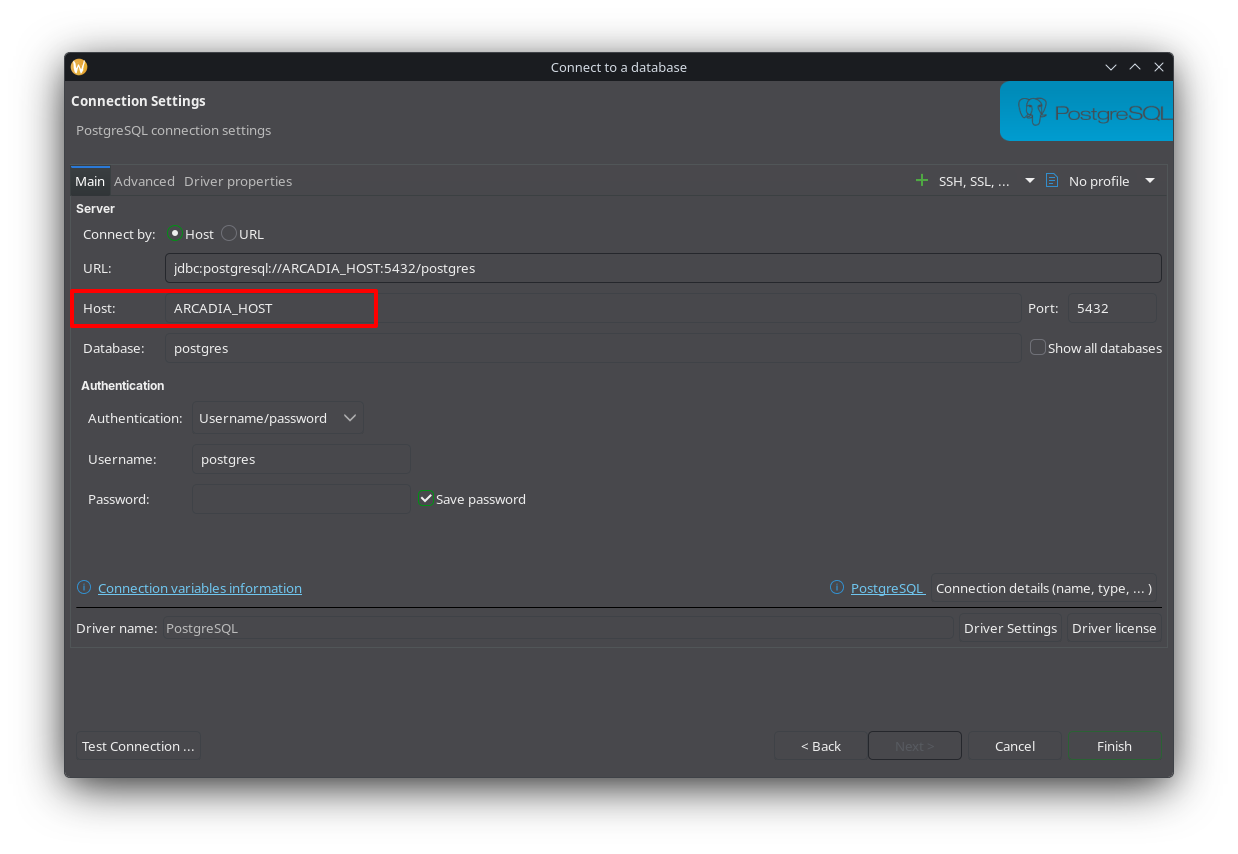
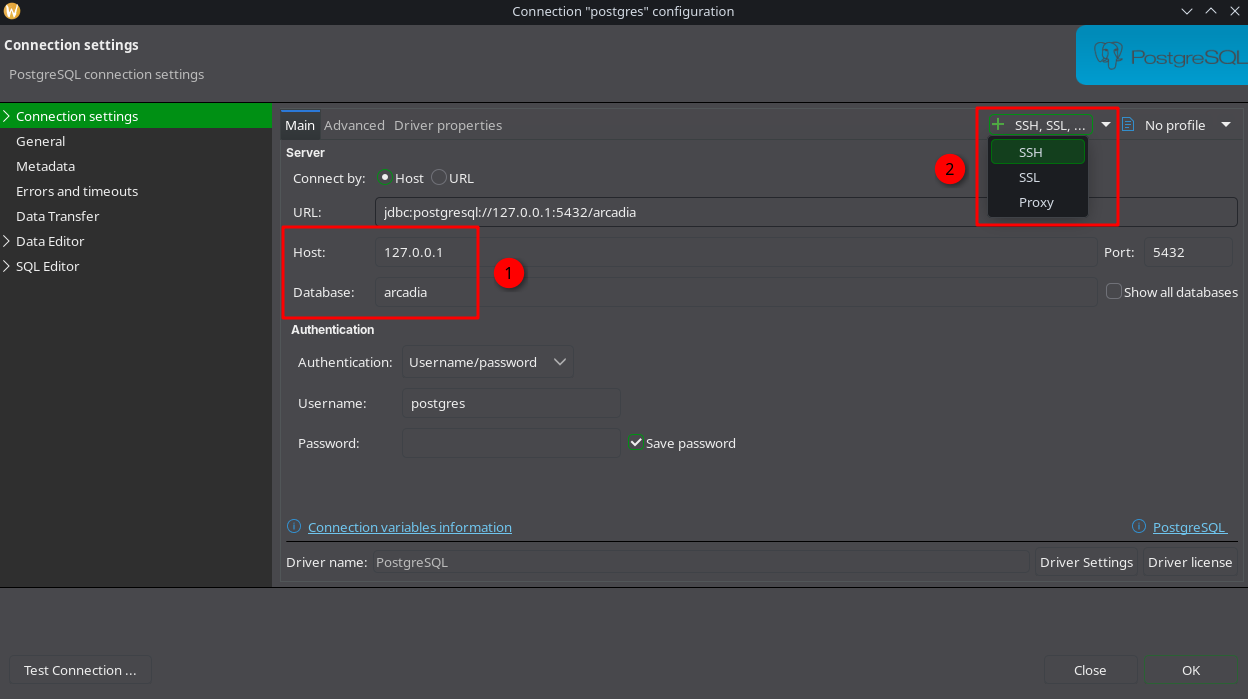
doc: Switch to the /register trick instead of updating default user
Also removed the part of setting Postgres to listen on global and then
documented how to connect to it via a SSH tunnel instead for better
security.

diff --git a/README.md b/README.md
@@ -11,7 +11,7 @@ As the official guide, you must have these prerequisites:
 - Rust & Cargo
 - Node.js & npm
 - Git
-- base-devel (to have all dependencies for compilation)
+- base-devel (to have all dependencies for Rust compilation)
 
 On Arch, these can be installed with this command:
 
@@ -116,7 +116,7 @@ sudo -u postgres psql -c "GRANT ALL PRIVILEGES ON DATABASE arcadia TO arcadia;"
 
     6. For `tracker/arcadia_tracker/.env` set these values:
 
-       - `API_KEY` with the same key you set in `backend/api/.en`
+       - `API_KEY` with the same key you set in `backend/api/.env`
        - Uncomment the `REVERSE_PROXY_CLIENT_IP_HEADER_NAME` variable
        - `DATABASE_URL` to `postgresql://arcadia:DB_ARCADIA_USER_PASSWD@127.0.0.1:5432/arcadia` with `DB_ARCADIA_USER_PASSWD` being the password you set on the Postgres setup
 
@@ -302,56 +302,36 @@ server {
 
 After this set, you can now open `https://your-tracker-name.com` and it will show up the login page.
 
-## Update the default user
+## Create a new user and update its permissions
 
-Now you'll see that if you try to connect with the default `creator` user with no password (as their is no password for this user in the DB), you'll get a unknown error. To fix this, you have to manually input a password hash into the DB for that user.
+You can go to `https://your-tracker-name.com/register` and simply register a new user.
 
-Me i use DBeaver as my DB manager, its pretty cool since it has a GUI. But to use DBeaver from your computer to access the db on the Arcadia host, you need to change two things:
+After we registered our new user, this one has no permission yet. To fix this, you have to manually input the permissions into the DB for that user.
 
-1. First Postgres listen to 127.0.0.1 by default. To made it to listen on global, change this in `/var/lib/postgres/data/postgresql.conf`:
-
-    - `listen_address` to `0.0.0.0`
-  
-2. Second, even if Postgres listen on all interface, you will not be able to connect from your computer IP because it is not whitelisted in Postgres HBA config. Open `/var/lib/postgres/data/pg_hba.conf` and at the end of the file, add this:
-
-    ```txt
-    host    all             all             YOU_COMPUTER_IP/32            trust
-    ```
-
-3. Then restart Postgres:
-
-    But before that, make sure to stop Arcadia's tracker and API
-    
-    ```bash
-    systemctl restart postgresql.service
-    ```
-----
-Then in DBeaver:
+Me i use DBeaver as my DB manager, its pretty cool since it has a GUI. For security reason, you can connect from your DBeaver to the Arcadia's Postgres via a SSH tunnel.
 
 1. Create a new connection using the blue icon on the top left:
 ![connection_button](assets/1_dbeaver_create_connection_button.png)
 2. Choose PostgresSQL for the database connection:
 ![connection_button](assets/2_dbeaver_database_connection.png)
-3. On the connection settings page, set the Host input to your Arcadia host IP, the database name to `arcadia`, and then click `Finish`:
+3. On the connection settings page, first set Host input to `127.0.0.1`, the database name to `arcadia`, and then click `+ SSH, SSL, ...` button and choose `SSH:
 ![connection_button](assets/3_dbeaver_connection_settings.png)
-4. Connect to the DB by double clicking on its entry in the Database Navigator column on the left:
+4. In the SSH settings tab, enter the Arcadia host IP and the user you want to connect as:
+![connection_button](assets/3-2_dbeaver_ssh_tunnel_settings.png)
+For the `Authentication Method` option, it's up to you to choose what you want. For me, i have my ssh-agent running that can deliver ssh keys to programs. Once you did that, click `OK`
+5. Connect to the DB by double clicking on its entry in the Database Navigator column on the left:
 ![connection_button](assets/4_dbeaver_connect_to_db.png)
-5. DBeaver will then ask you to download the required files for the Postgres driver, simply click `Download`:
+6. DBeaver will show a warning pop-up saying that the authenticity of the remote host can't be establish. And it will ask you if you want to continue, simple click `Yes`.
+7. DBeaver will then ask you to download the required files for the Postgres driver, simply click `Download`:
 ![connection_button](assets/5_dbeaver_download_driver.png)
-6. When download finished, go open the `users` table:
+8. When download finished, go open the `users` table:
 ![connection_button](assets/6_dbeaver_open_users_table.png)
-7. Now you can see that we have our default `creator` user with no password in the `password_hash` column. You can input this below inside that column, this hash is for `test`:
-
-    ```plain
-    $argon2id$v=19$m=19456,t=2,p=1$s4XJtCUk9IrGgNsTfP6Ofw$ktoGbBEoFaVgdiTn19Gh9h45LjFiv7AUEL5KHhzm4d0
-    ```
-
-    We will also add all permissions to that user since this is the Arcadia's admin. For this, input the text bellow into the `permissions` column:
+9. And input this below into the `permissions` column for the new user created (for all permissions):
 
     ```plain
     {download_torrent,create_torrent_request,immune_activity_pruning,create_forum_thread,create_forum_post,send_pm,view_torrent_peers,edit_collage,edit_torrent,set_user_custom_title,link_similar_wiki_articles,edit_wiki_article,create_wiki_article,delete_forum_post,edit_forum_post,edit_forum_thread,edit_title_group,edit_title_group_comment,edit_edition_group,edit_artist,edit_series,edit_torrent_request,edit_title_group_tag,move_torrent_to_other_edition_group,delete_edition_group,edit_torrent_up_down_factors,view_stats_details,merge_title_group,delete_collage_entry,search_user_edit_change_logs,delete_torrent,delete_title_group_tag,delete_series,remove_title_group_from_series,delete_artist,delete_title_group,read_staff_pm,reply_staff_pm,unresolve_staff_pm,resolve_staff_pm,set_torrent_staff_checked,upload_torrent,pin_forum_thread,delete_forum_category,delete_forum_sub_category,delete_forum_thread,lock_forum_thread,edit_forum_sub_category,edit_forum_category,create_forum_category,create_forum_sub_category,delete_collage,create_css_sheet,edit_css_sheet,warn_user,ban_user,edit_user,edit_user_permissions,lock_user_class,change_user_class,search_unauthorized_access,see_foreign_torrent_clients,search_donation,edit_donation,edit_user_class,create_user_class,get_user_application,update_user_application,delete_user_class,edit_arcadia_settings,create_donation,delete_donation,delete_user_edit_change_log,delete_torrent_report}
     ```
 
-    After you input these two things, you can save it with <kbd>CTRL</kbd> + <kbd>s</kbd>
+    After you input this, you can save it with <kbd>CTRL</kbd> + <kbd>s</kbd>
 
-Now you will be able to login with the creds `creator`/`test`.
+Now you have a new account with full permission that you can use to manage the instance.
